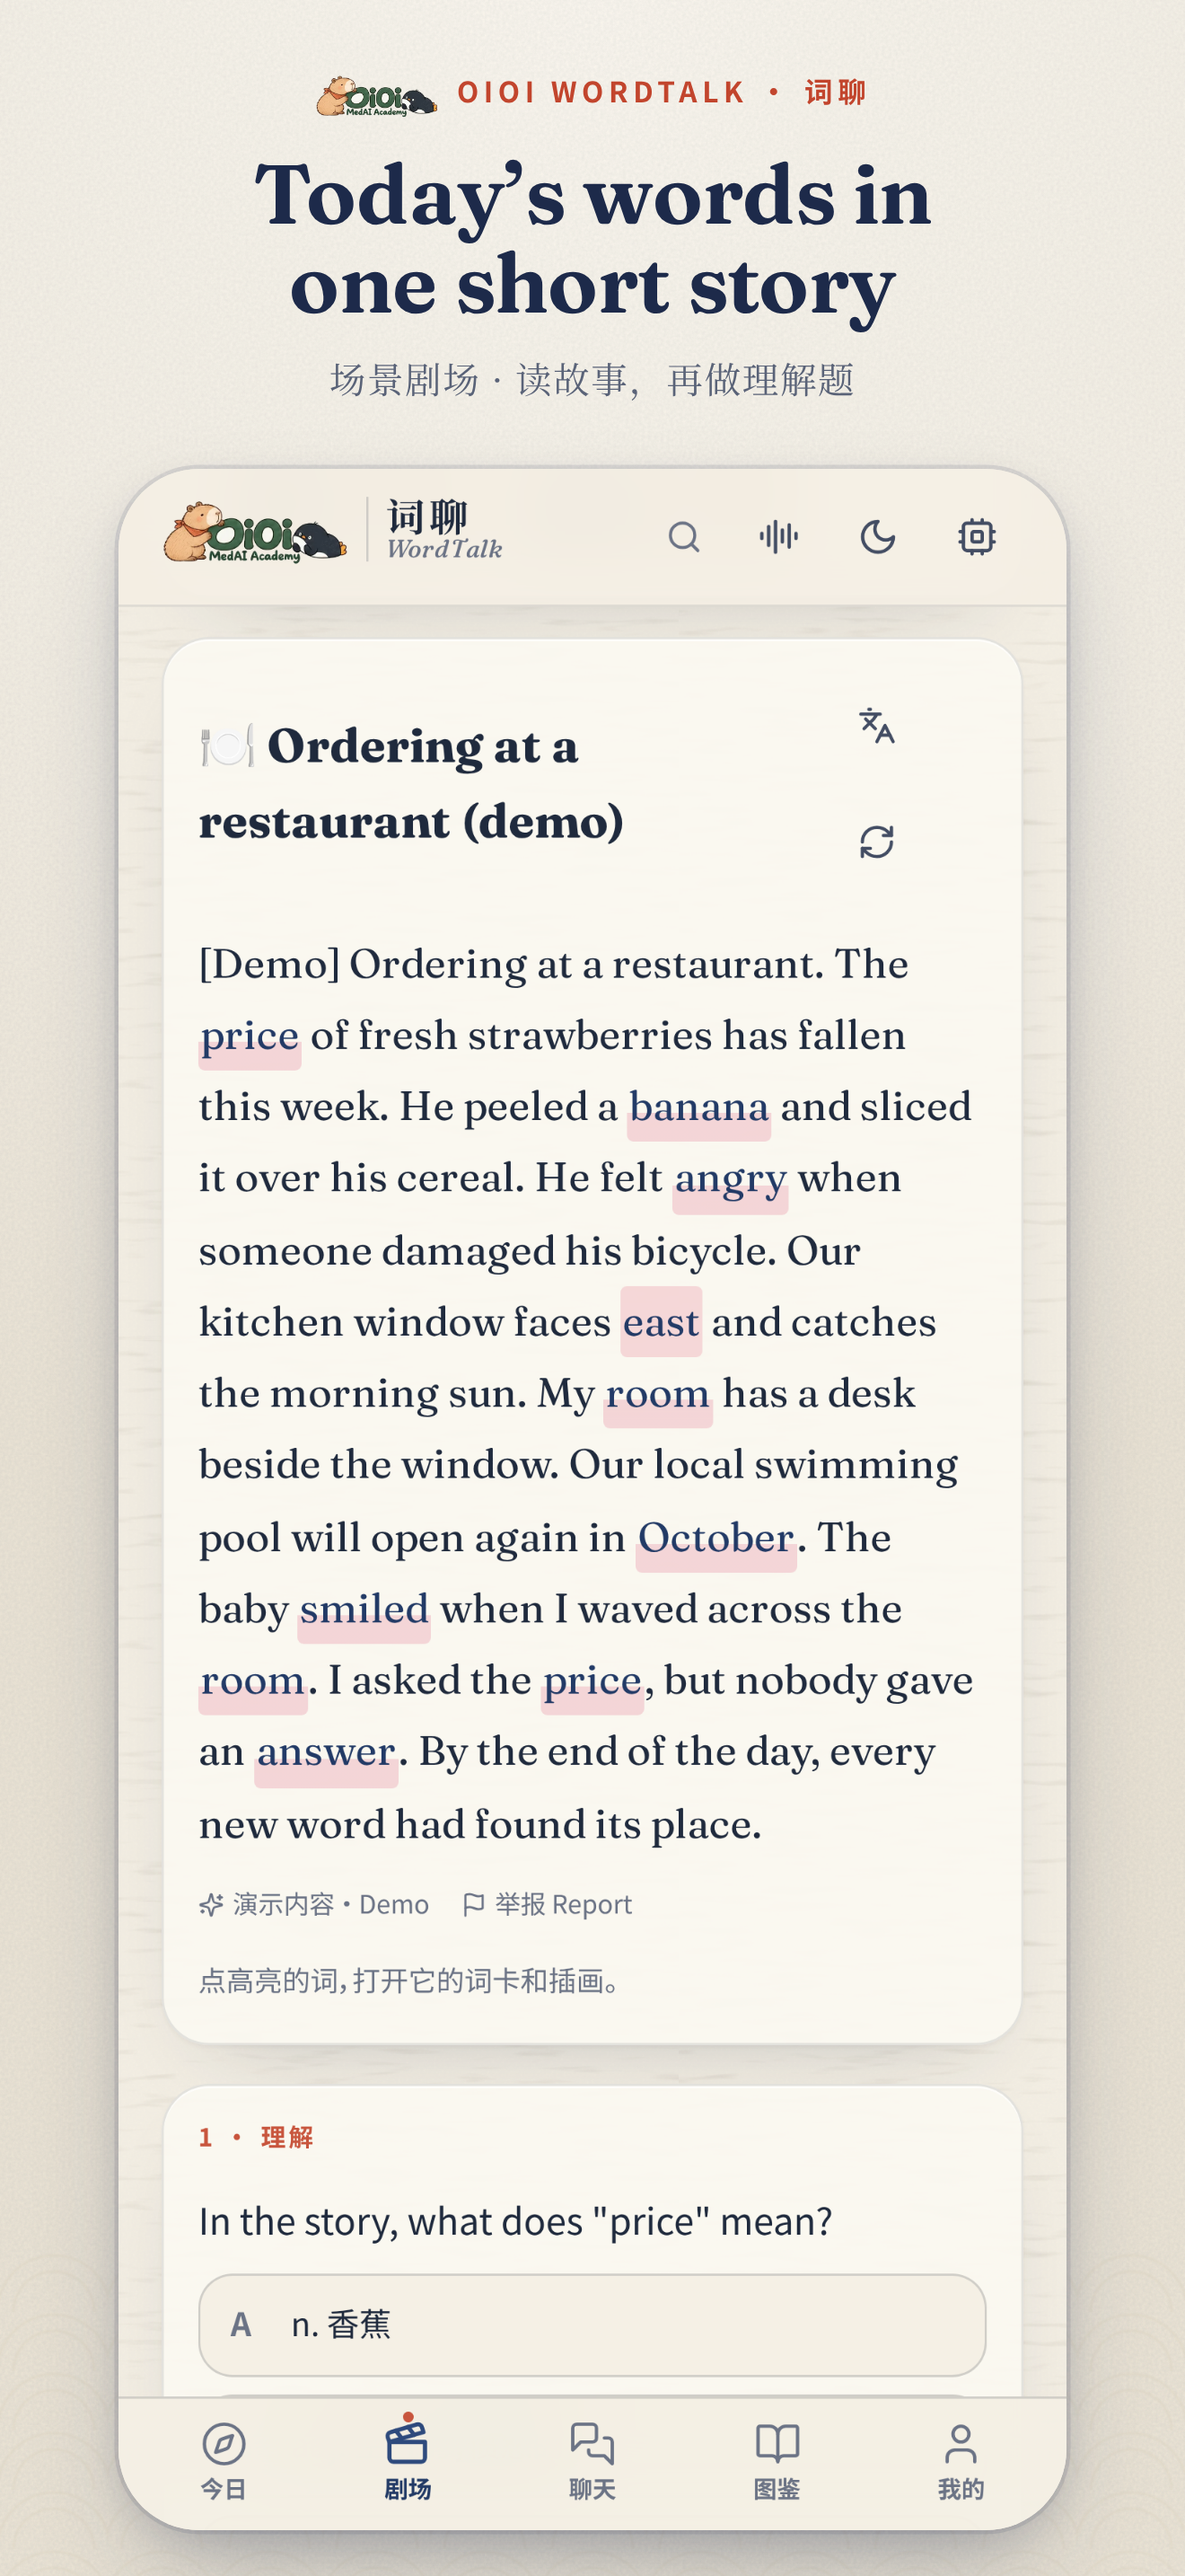
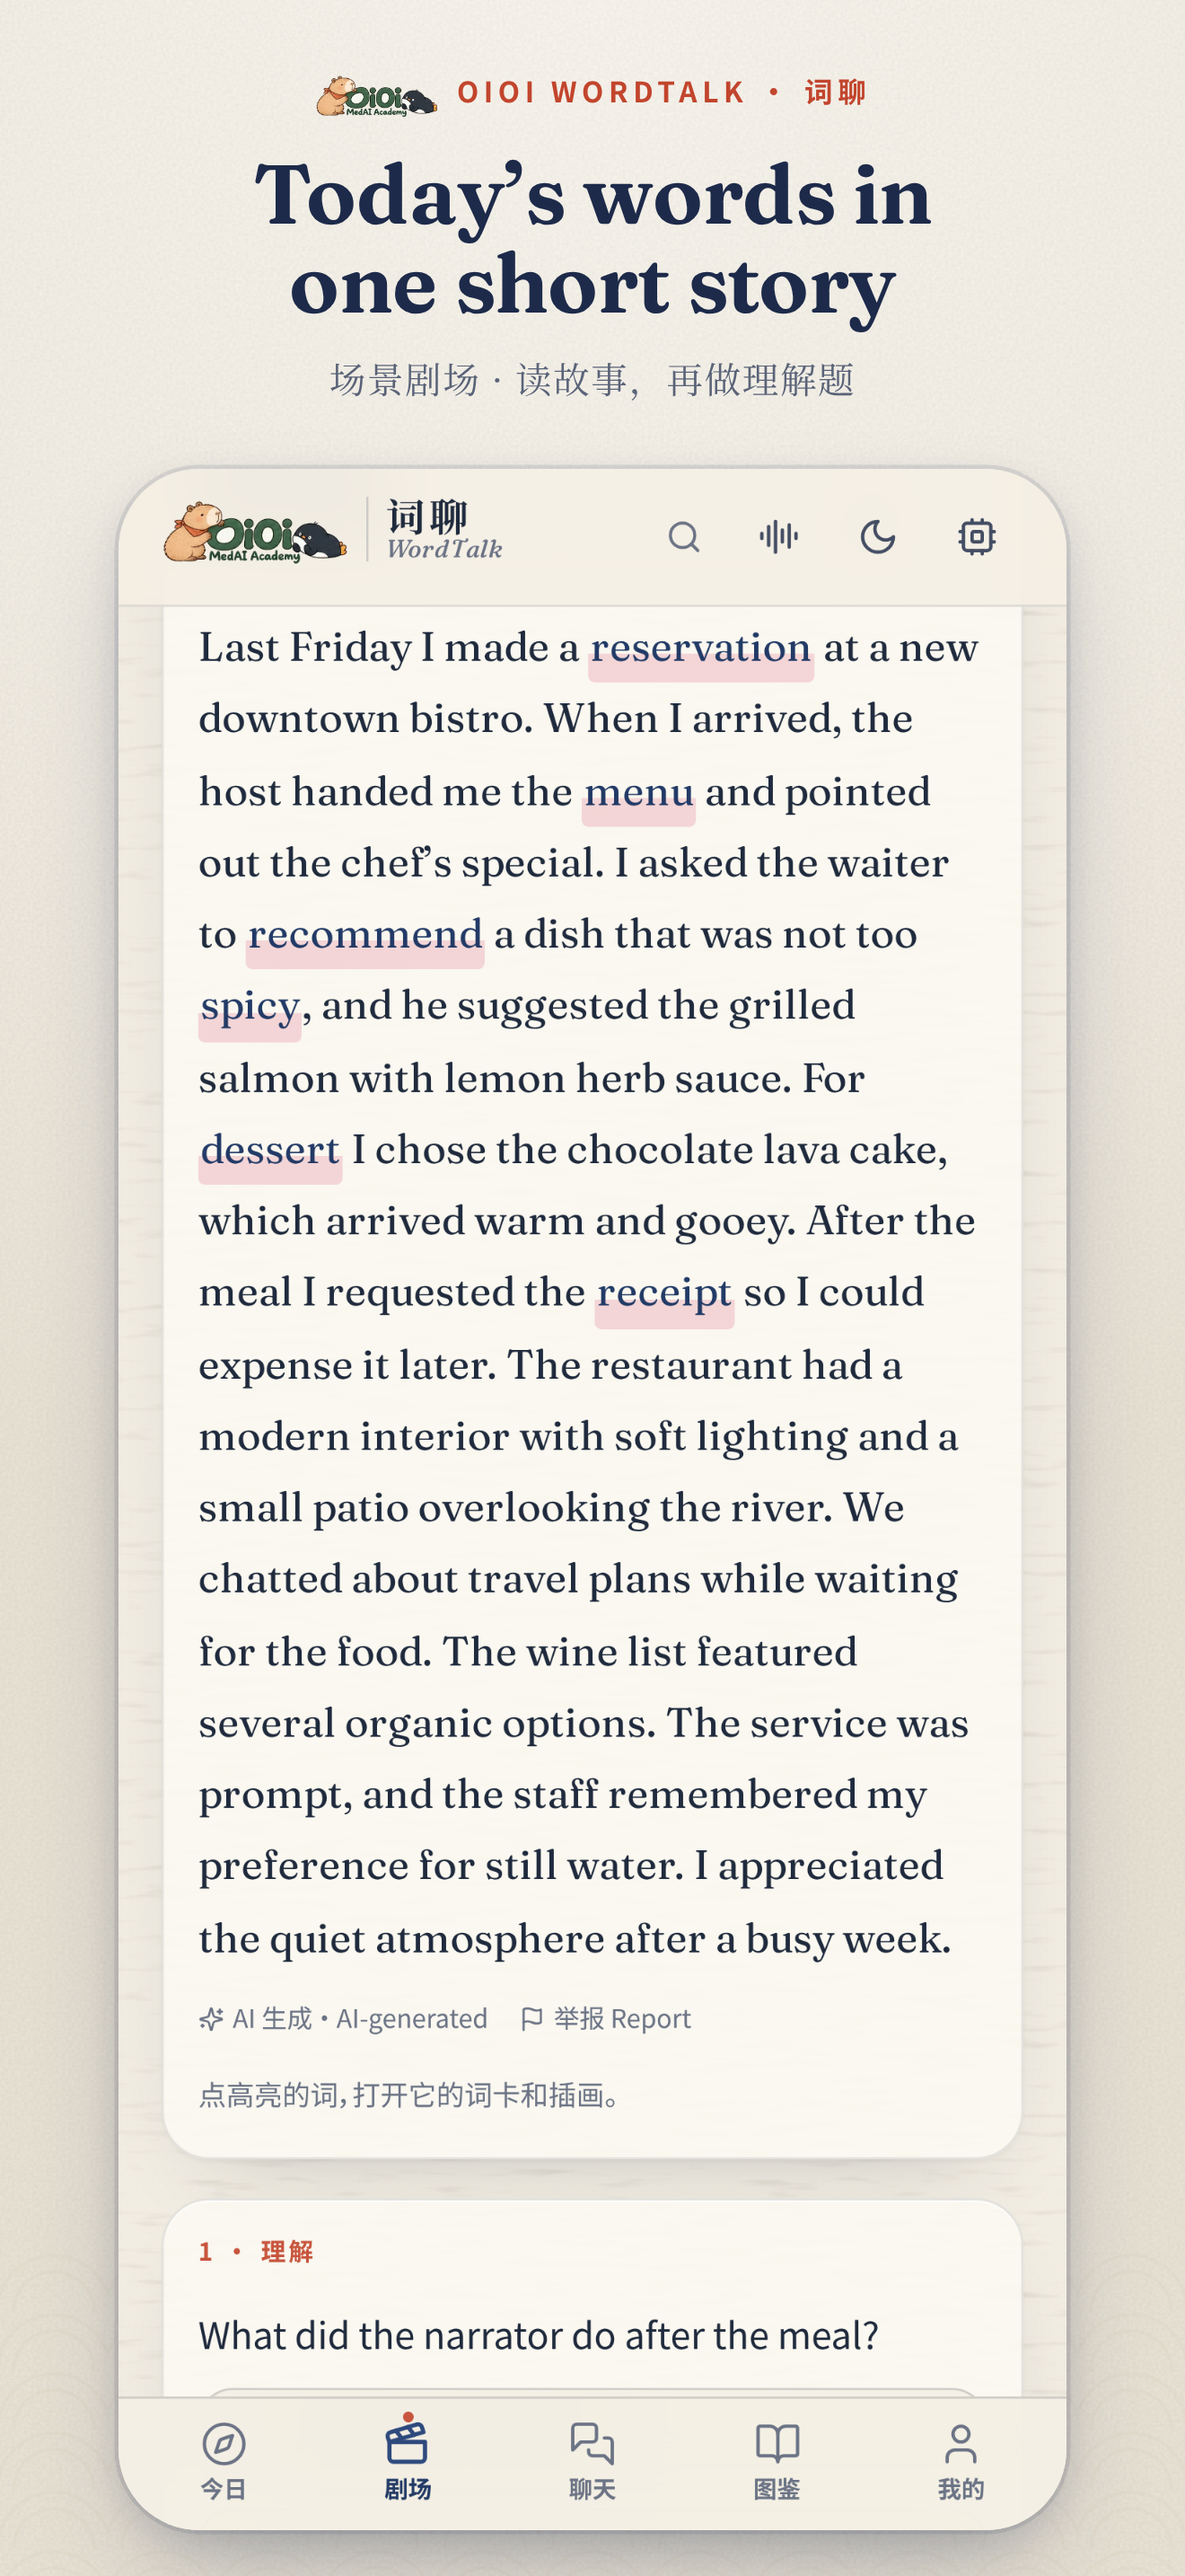
App Store screenshots: real AI output for Scene Theater (03) and Chat (04)
Captured with OpenRouter free model nvidia/nemotron-3-ultra-550b-a55b:free ($0):
restaurant story + comprehension question; airport check-in role-play with starred
words and AI-generated labels. Adds live-*.mjs capture scripts and an /or relay in mirror.py.

Changed region(s): [[0.1553, 0.2172, 0.8076, 0.931], [0.7765, 0.4655, 0.8076, 0.4965]]

diff --git a/scripts/appstore-screenshots/mirror.py b/scripts/appstore-screenshots/mirror.py
@@ -1,10 +1,11 @@
 # Local caching mirror of the live GitHub Pages site (the sandbox browser cannot tunnel out directly).
 import http.server, socketserver, urllib.request, os, hashlib, mimetypes, sys
 ORIGIN="https://2023anita.github.io"
-CACHE="/tmp/ow-mirror"; os.makedirs(CACHE,exist_ok=True)
+CACHE=os.environ.get("MIRROR_CACHE","/tmp/ow-mirror"); os.makedirs(CACHE,exist_ok=True)
 class H(http.server.BaseHTTPRequestHandler):
     def log_message(self,*a): pass
     def do_GET(self):
+        if self.path.startswith("/or/"): return self._or()
         path=self.path.split("#")[0]
         key=os.path.join(CACHE,hashlib.sha1(path.encode()).hexdigest())
         try:
@@ -19,5 +20,22 @@ class H(http.server.BaseHTTPRequestHandler):
             self.send_response(e.code); self.end_headers()
         except Exception as e:
             self.send_response(502); self.end_headers()
+    # /or/* -> https://openrouter.ai/api/v1/* for live-AI captures (key from $OPENROUTER_API_KEY or an egress proxy; never cached).
+    def _cors(self):
+        self.send_header("Access-Control-Allow-Origin","*"); self.send_header("Access-Control-Allow-Headers","*"); self.send_header("Access-Control-Allow-Methods","GET,POST,OPTIONS")
+    def do_OPTIONS(self):
+        self.send_response(204); self._cors(); self.end_headers()
+    def _or(self, body=None):
+        url="https://openrouter.ai/api/v1/"+self.path[len("/or/"):]
+        hdr={k:v for k,v in self.headers.items() if k.lower() in ("content-type","http-referer","x-title")}
+        if os.environ.get("OPENROUTER_API_KEY"): hdr["Authorization"]="Bearer "+os.environ["OPENROUTER_API_KEY"]  # else an egress proxy must add it
+        req=urllib.request.Request(url,data=body,headers=hdr,method=self.command)
+        try:
+            with urllib.request.urlopen(req,timeout=180) as r: code,data,ct=r.status,r.read(),r.headers.get("Content-Type","application/json")
+        except urllib.error.HTTPError as e: code,data,ct=e.code,e.read(),e.headers.get("Content-Type","application/json")
+        self.send_response(code); self._cors(); self.send_header("Content-Type",ct); self.send_header("Content-Length",str(len(data))); self.end_headers(); self.wfile.write(data)
+    def do_POST(self):
+        if not self.path.startswith("/or/"): self.send_response(404); self.end_headers(); return
+        self._or(self.rfile.read(int(self.headers.get("Content-Length",0))))
 class S(socketserver.ThreadingMixIn,http.server.HTTPServer): daemon_threads=True
 S(("127.0.0.1",8800),H).serve_forever()

diff --git a/scripts/appstore-screenshots/README.md b/scripts/appstore-screenshots/README.md
@@ -2,7 +2,7 @@
 
 Output: `fastlane/screenshots/en-US/iPhone69-0N-*.png` — 1320 × 2868, portrait, RGB PNG (no alpha). Plan and headline rules: `docs/APP_STORE_METADATA.md` (no IELTS wording in headlines, no Apple device frames).
 
-Captured from the live web build (https://2023anita.github.io/oioi-wordtalk/) in headless Chromium: viewport 440 × 956 at deviceScaleFactor 3, iPhone Safari user agent, light theme, **offline demo mode (no API key, no AI calls)** — AI panels therefore show the “演示内容 · Demo” label.
+Captured from the live web build (https://2023anita.github.io/oioi-wordtalk/) in headless Chromium: viewport 440 × 956 at deviceScaleFactor 3, iPhone Safari user agent, light theme, offline demo mode for 01/02/05/06. **03 (Scene Theater) and 04 (Chat) show real AI output** (OpenRouter, free model `nvidia/nemotron-3-ultra-550b-a55b:free`, $0), labelled “AI 生成 · AI-generated” — see *Live-AI frames* below.
 
 | File | Headline | Subtitle |
 | --- | --- | --- |
@@ -25,3 +25,21 @@ node $S/compose.mjs                                     # headline frames -> fas
 ```
 
 `sim.mjs` drives the app's own UI with a shifted clock, so the Me/FSRS numbers are genuine app output from simulated study days, not hand-edited data. If the browser can't reach github.io directly, run `python3 $S/mirror.py` and prefix the commands with `BASE=http://127.0.0.1:8800/oioi-wordtalk/`. Edit headlines in `frames.json`.
+
+## Live-AI frames (03 scene, 04 chat)
+
+Needs `python3 $S/mirror.py` running (it relays `/or/*` to `https://openrouter.ai/api/v1/*`, adding `OPENROUTER_API_KEY` from its environment) and `BASE=http://127.0.0.1:8800/oioi-wordtalk/`. The app is set to provider OpenRouter with a placeholder key; the consent dialog is accepted in the UI. Use a free model only. `IDS`/`SCENARIO` pin today's practice set (same as picking words with 换一组 and a scenario chip). Generated stories/replies are cached by the app, so captures reuse them.
+
+```sh
+export BASE=http://127.0.0.1:8800/oioi-wordtalk/ MODEL=nvidia/nemotron-3-ultra-550b-a55b:free
+# 03: restaurant story (retries on empty/truncated model output)
+export IDS=menu,reservation,recommend,spicy,dessert,receipt SCENARIO=restaurant
+node $S/live-scene.mjs && SCALE=3 SCENE_MODE=story node $S/live-capture.mjs scene
+# 04: airport check-in role-play, one learner message per run
+export IDS=passport,luggage,boarding,aisle,window,delay SCENARIO=airport
+node $S/live-chat.mjs "Good morning! Here is my passport. Could I have an aisle seat, please?"
+node $S/live-chat.mjs "Just one suitcase as checked luggage. Is there a delay, and when does boarding start?"
+node $S/live-chat.mjs "A window seat would be lovely, thank you. Which gate should I go to?"
+SCALE=3 CHAT_FROM=2 CHAT_TO=4 node $S/live-capture.mjs chat
+node $S/compose.mjs 03-scene 04-chat
+```
